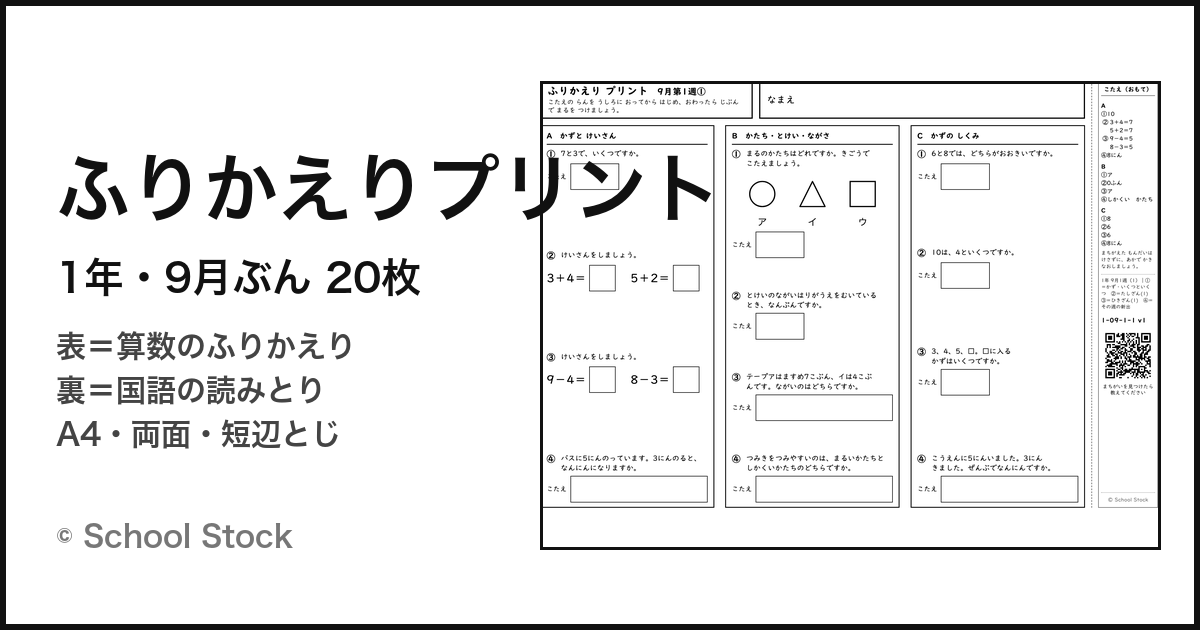
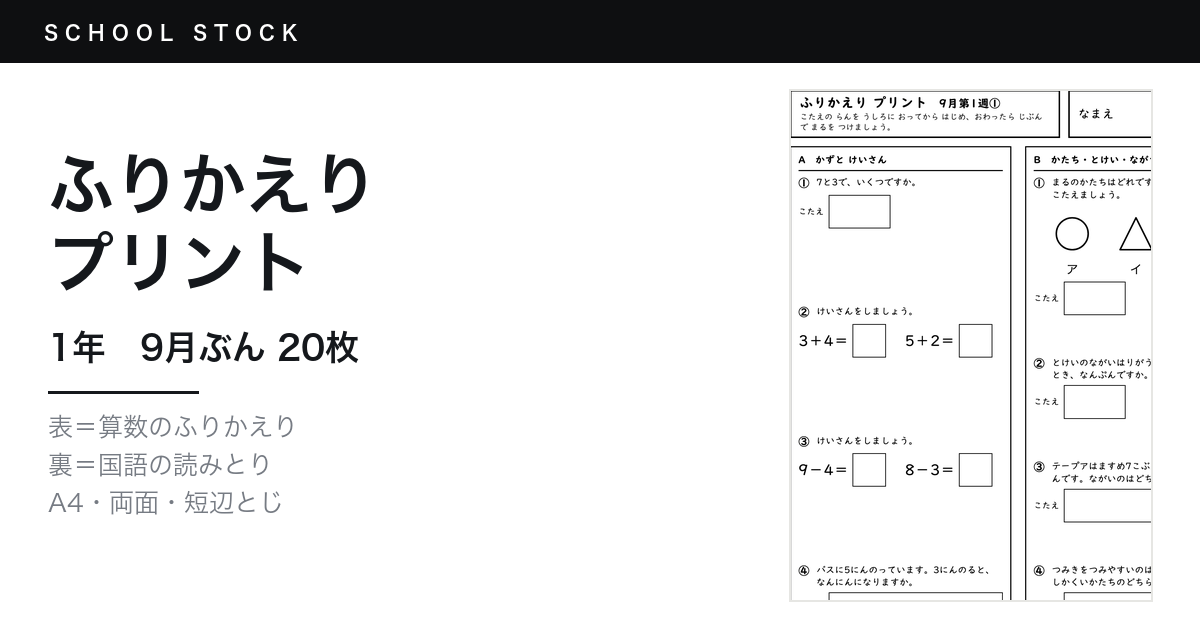
ふりかえりプリント：学年別ページを追加し、School Stockのトンマナにそろえる
- 学年ごとのページを新設。20枚それぞれが「どの単元を使っているか」を
  A・B・Cの列ごとに①〜④で一覧にした。プリントIDも各行に出す
- 13列に割ると1つ1つが細すぎて読めないので、A/B/Cの3列にまとめて
  中で①〜④をたてに並べる形にした
- 見た目を棚の各ページとそろえた（tokens.cssの ink/black/wash/line/sub/accent、
  黒のトップバーとフッター、罫は1px、角丸なし）
- サムネイルを作り直し。紙面全体を縮めると細かすぎて何か分からなかったので、
  左上を大きく切り出す形にした

diff --git a/prints/furikaeri/index.html b/prints/furikaeri/index.html
@@ -6,47 +6,88 @@
 <meta name="robots" content="noindex,nofollow">
 <title>ふりかえりプリント 9月ぶん｜School Stock</title>
 <style>
-:root{ --ink:#1a1a1a; --sub:#555; --line:#ddd; --bg:#fbfaf7; --accent:#166156; }
-*{ box-sizing:border-box; }
-body{ margin:0; background:var(--bg); color:var(--ink);
-  font-family:"Hiragino Sans","Hiragino Kaku Gothic ProN","Yu Gothic",sans-serif;
-  line-height:1.7; -webkit-text-size-adjust:100%; }
-.wrap{ max-width:960px; margin:0 auto; padding:32px 20px 80px; }
-h1{ font-size:1.6rem; margin:0 0 12px; letter-spacing:.02em; }
-h2{ font-size:1.15rem; margin:0 0 10px; letter-spacing:.02em; }
-.lead{ color:var(--sub); margin:0 0 14px; }
-.all{ color:var(--accent); font-weight:700; }
-a{ color:var(--accent); }
+/* School Stock のトンマナ（~/Claude/design-system/tokens.css と棚の各ページにそろえる） */
+:root{ --ink:#15181c; --black:#0e0f11; --paper:#fff; --wash:#f6f6f4; --line:#e6e6e3;
+       --sub:#767b83; --accent:#2b5fd9; }
+*{ margin:0; padding:0; box-sizing:border-box; }
+body{ font-family:"Hiragino Sans","Hiragino Kaku Gothic ProN","Noto Sans JP","Yu Gothic Medium",sans-serif;
+  background:var(--paper); color:var(--ink); line-height:1.9; letter-spacing:.02em;
+  -webkit-font-smoothing:antialiased; }
+a{ color:var(--accent); text-decoration:none; }
+
+.topbar{ background:var(--black); color:#fff; position:sticky; top:0; z-index:40; }
+.topbar-in{ max-width:960px; margin:0 auto; padding:13px 24px; display:flex;
+  justify-content:space-between; align-items:center; gap:14px; }
+.wordmark{ font-size:12.5px; font-weight:700; letter-spacing:.28em; color:#fff; white-space:nowrap; }
+.topbar .tag{ color:#b9bcc2; font-size:11.5px; letter-spacing:.1em; }
+
+.container{ max-width:960px; margin:0 auto; padding:0 24px 72px; }
+.crumb{ font-size:12px; color:var(--sub); letter-spacing:.06em; padding:22px 0 0; }
+.crumb a{ color:var(--sub); text-decoration:underline; text-underline-offset:3px; }
+
+h2{ font-size:23px; letter-spacing:.04em; padding:26px 0 14px; border-bottom:1px solid var(--ink); }
+h3{ font-size:15px; letter-spacing:.06em; margin:34px 0 10px; }
+h3 .nw{ font-size:12px; font-weight:400; color:var(--sub); letter-spacing:.04em; }
+.note{ font-size:14px; color:var(--sub); margin:16px 0 0; }
+.dl{ margin:18px 0 6px; }
+.btn{ display:inline-block; font-size:13px; font-weight:700; letter-spacing:.06em;
+  color:#fff; background:var(--ink); padding:11px 20px; }
+.btn:hover{ background:var(--accent); }
+
 /* 鍵の画面 */
-#gate{ max-width:420px; margin:14vh auto; padding:28px 24px; background:#fff;
-  border:1px solid var(--line); border-radius:12px; }
-#gate h1{ font-size:1.25rem; }
-#gate p{ color:var(--sub); font-size:.92rem; margin:0 0 18px; }
-#pw{ width:100%; padding:12px 14px; font-size:1rem; border:1px solid #bbb; border-radius:8px; }
-#go{ width:100%; margin-top:12px; padding:12px; font-size:1rem; font-weight:700; color:#fff;
-  background:var(--accent); border:0; border-radius:8px; cursor:pointer; }
-#msg{ min-height:1.4em; margin-top:10px; color:#c00; font-size:.9rem; }
-/* 中身 */
-.g{ background:#fff; border:1px solid var(--line); border-radius:12px;
-  padding:18px 18px 12px; margin:0 0 18px; }
-.th{ width:100%; max-width:520px; height:auto; display:block;
-  border:1px solid var(--line); border-radius:8px; margin:0 0 12px; }
-.wk{ display:flex; flex-wrap:wrap; align-items:center; gap:8px; padding:7px 0;
-  border-top:1px dashed var(--line); }
-.wl{ flex:none; width:4.2em; font-weight:700; font-size:.92rem; }
-.p{ display:inline-block; padding:5px 11px; font-size:.88rem; text-decoration:none;
-  border:1px solid var(--line); border-radius:999px; background:#fff; }
-.p:hover{ border-color:var(--accent); }
-.mk{ margin:0 0 10px; font-size:.94rem; }
-.report{ background:#fff; border:1px solid var(--line); border-left:5px solid var(--accent);
-  border-radius:8px; padding:14px 16px; margin:0 0 22px; font-size:.94rem; }
-code{ background:#f0efe9; padding:1px 6px; border-radius:4px; font-size:.9em; }
-.cr{ color:#888; font-size:.85rem; margin-top:24px; }
-@media (max-width:520px){ .wl{ width:100%; } }
+#gate{ max-width:400px; margin:12vh auto; padding:30px 26px; border:1px solid var(--ink); }
+#gate h1{ font-size:17px; letter-spacing:.06em; margin-bottom:6px; }
+#gate p{ color:var(--sub); font-size:13px; margin-bottom:18px; }
+#pw{ width:100%; padding:11px 13px; font-size:15px; font-family:inherit;
+  border:1px solid var(--line); background:var(--wash); }
+#go{ width:100%; margin-top:10px; padding:12px; font-size:13px; font-weight:700; letter-spacing:.1em;
+  color:#fff; background:var(--ink); border:0; cursor:pointer; font-family:inherit; }
+#go:hover{ background:var(--accent); }
+#msg{ min-height:1.5em; margin-top:10px; font-size:12.5px; color:#b3261e; }
+
+/* 学年カード */
+.cards{ display:grid; grid-template-columns:repeat(auto-fill,minmax(280px,1fr)); gap:20px; margin:26px 0 0; }
+.card{ display:block; border:1px solid var(--line); color:var(--ink); }
+.card:hover{ border-color:var(--ink); }
+.card img{ width:100%; height:auto; display:block; border-bottom:1px solid var(--line); }
+.cbody{ padding:13px 15px 15px; }
+.cbody b{ display:block; font-size:15px; letter-spacing:.06em; }
+.cbody span{ display:block; font-size:12px; color:var(--sub); }
+
+/* 単元の表 */
+.tw{ overflow-x:auto; border:1px solid var(--line); }
+table{ border-collapse:collapse; width:100%; min-width:720px; font-size:12.5px; line-height:1.7; }
+/* A・B・Cごとに①〜④をたてに並べる（13列に割ると1つ1つが細すぎて読めない） */
+.ul{ list-style:none; }
+.ul li{ padding:1px 0 1px 1.9em; text-indent:-1.9em; }
+.ul i{ display:inline-block; width:1.6em; font-style:normal; color:var(--sub); }
+th,td{ border-bottom:1px solid var(--line); padding:8px 10px; text-align:left;
+  vertical-align:top; letter-spacing:.01em; }
+thead th{ background:var(--wash); font-size:11.5px; letter-spacing:.08em; color:var(--sub);
+  white-space:nowrap; position:sticky; top:0; }
+.rh{ white-space:nowrap; background:#fcfcfb; font-weight:700; }
+.rh small{ display:block; font-weight:400; font-size:10.5px; color:var(--sub); letter-spacing:.04em; }
+.pd{ white-space:nowrap; }
+tbody tr:hover td{ background:var(--wash); }
+
+.report{ border-left:3px solid var(--ink); background:var(--wash); padding:14px 18px;
+  margin:22px 0 0; font-size:13.5px; }
+code{ font-family:"SF Mono",Menlo,monospace; font-size:12px; background:#fff;
+  border:1px solid var(--line); padding:1px 6px; }
+
+.foot{ background:var(--black); color:#b9bcc2; margin-top:56px; }
+.foot-in{ max-width:960px; margin:0 auto; padding:30px 24px 34px; font-size:12.5px; line-height:2; }
+.foot .fw{ color:#fff; font-weight:700; letter-spacing:.26em; font-size:12px; margin-bottom:8px; }
 </style>
 </head>
 <body>
-<div class="wrap">
+
+<div class="topbar"><div class="topbar-in">
+  <span class="wordmark">SCHOOL STOCK</span>
+  <span class="tag">ふりかえりプリント</span>
+</div></div>
+
+<div class="container">
   <div id="gate">
     <h1>ふりかえりプリント　9月ぶん</h1>
     <p>合言葉を入れてください。</p>
@@ -56,14 +97,26 @@ code{ background:#f0efe9; padding:1px 6px; border-radius:4px; font-size:.9em; }
   </div>
   <div id="body" hidden></div>
 </div>
+
+<div class="foot"><div class="foot-in">
+  <div class="fw">SCHOOL STOCK</div>
+  問題も文章も自作です。教科書の転載や、児童・学校の情報はふくみません。
+  <div>© School Stock</div>
+</div></div>
+
 <script>
 const b64 = s => Uint8Array.from(atob(s), c => c.charCodeAt(0));
+
+function show(id) {
+  document.querySelectorAll(".pane").forEach(p => { p.hidden = (p.id !== id); });
+  window.scrollTo(0, 0);
+}
 
 async function open_() {
   const msg = document.getElementById("msg");
   const pw = document.getElementById("pw").value;
   if (!pw) { msg.textContent = "合言葉を入れてください。"; return; }
-  msg.style.color = "#555"; msg.textContent = "ひらいています…";
+  msg.style.color = "#767b83"; msg.textContent = "ひらいています…";
   try {
     const d = await (await fetch("payload.json", {cache:"no-store"})).json();
     const base = await crypto.subtle.importKey(
@@ -76,8 +129,13 @@ async function open_() {
     const body = document.getElementById("body");
     body.innerHTML = new TextDecoder().decode(plain);
     body.hidden = false;
+    body.addEventListener("click", e => {
+      const a = e.target.closest("[data-go]");
+      if (a) { e.preventDefault(); show(a.getAttribute("data-go")); }
+    });
+    show("top");
   } catch (e) {
-    msg.style.color = "#c00";
+    msg.style.color = "#b3261e";
     msg.textContent = "ひらけませんでした。合言葉をたしかめてください。";
   }
 }
